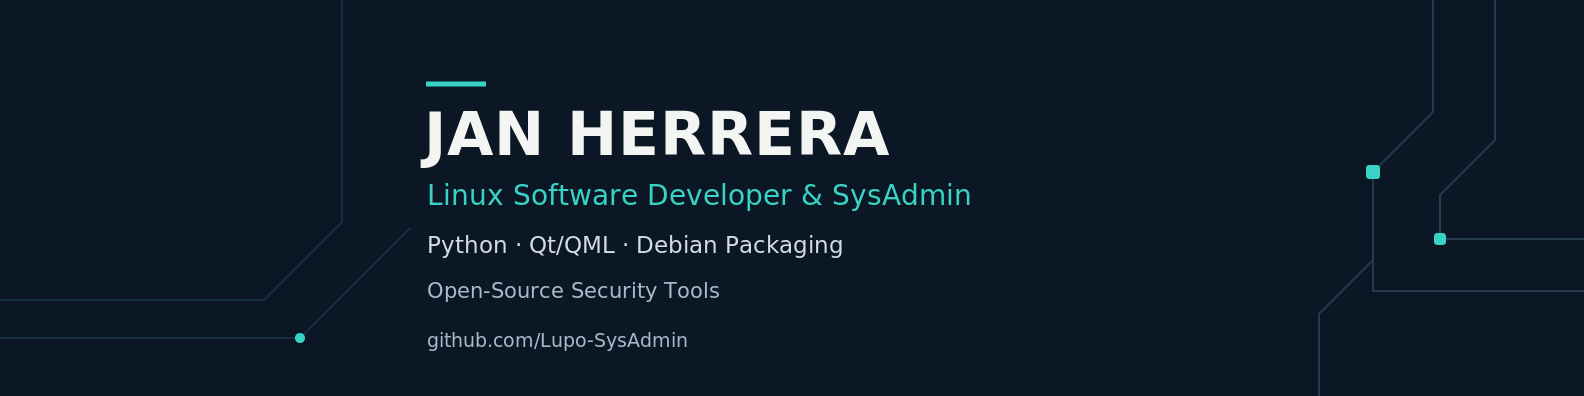
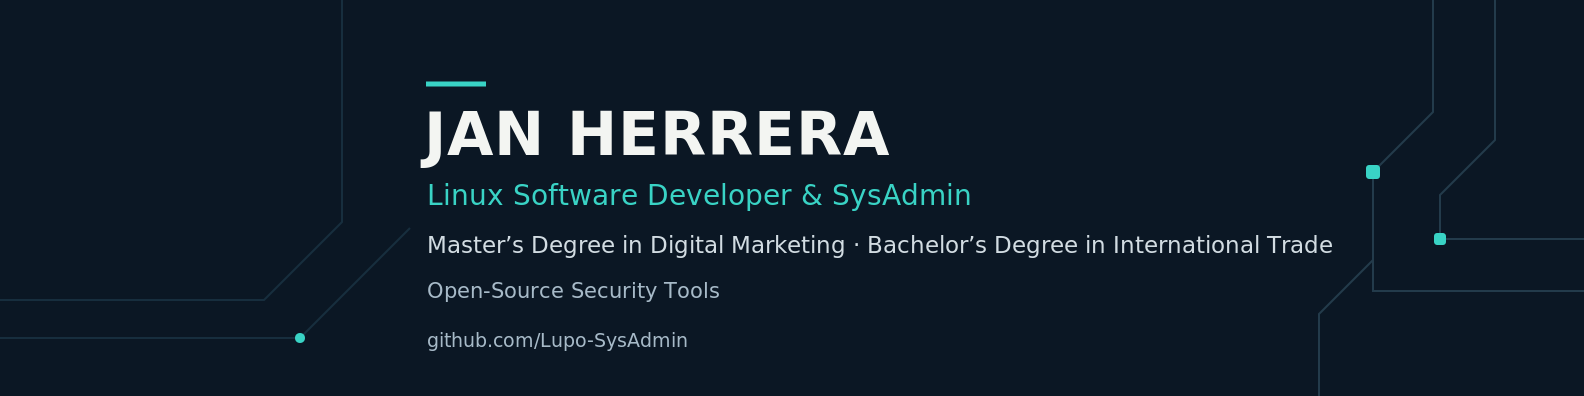
Make English the default profile and documentation language

Changed region(s): [[0.2475, 0.5758, 0.8662, 0.6667]]

diff --git a/README.md b/README.md
@@ -1,46 +1,40 @@
 ![Jan Herrera — Linux Software Developer & SysAdmin](assets/jh-linkedin-banner.png)
 
+[![Español](https://img.shields.io/badge/Language-Espa%C3%B1ol-39D3C5?style=for-the-badge)](README.es.md)
+
 [LinkedIn](https://www.linkedin.com/in/janherreraa/) · [Repositories](https://github.com/Lupo-SysAdmin?tab=repositories)
+
+**Education:** Master’s Degree in Digital Marketing · Bachelor’s Degree in International Trade.
 
 I develop Linux desktop applications and integrations for security tools, with Python, Qt/QML, systemd, and Debian packaging.
 
-Desarrollo aplicaciones de escritorio e integraciones para herramientas de seguridad en Linux, con Python, Qt/QML, systemd y empaquetado Debian.
-
-| Project / Proyecto | My contribution / Mi contribución |
+| Project | My contribution |
 | --- | --- |
-| [JALTRIX](https://github.com/Lupo-SysAdmin/JALTRIX) | Linux investigation console for Snort 3. / Consola Linux de investigación para Snort 3. |
-| [USBGuard Control](https://github.com/Lupo-SysAdmin/usbguard-control) | Independent desktop interface for USBGuard. / Interfaz de escritorio independiente para USBGuard. |
-| [Autopsy GUI Linux](https://github.com/Lupo-SysAdmin/Autopsy-GUI-Linux) | Linux integration, Debian packaging and validation. / Integración Linux, empaquetado Debian y validación. |
+| [JALTRIX](https://github.com/Lupo-SysAdmin/JALTRIX) | Linux investigation console for Snort 3. |
+| [USBGuard Control](https://github.com/Lupo-SysAdmin/usbguard-control) | Independent desktop interface for USBGuard. |
+| [Autopsy GUI Linux](https://github.com/Lupo-SysAdmin/Autopsy-GUI-Linux) | Linux integration, Debian packaging and validation. |
 
-**Lupo Studio:** in development / en desarrollo.
+**Lupo Studio:** in development.
 
 Original Autopsy GUI, Snort, USBGuard, and other upstream components retain their own authorship and licenses. Validation scope and installation details are documented in each repository.
 
-La interfaz original de Autopsy, Snort, USBGuard y los demás componentes conservan su autoría y licencias. El alcance de validación y las instrucciones de instalación se documentan en cada repositorio.
-
-### Support my work / Apoya mi trabajo
+### Support my work
 
 If my tools are useful to you, you can support the time I spend on development, testing, packaging, and documentation. Every contribution is welcome and voluntary. Thank you!
 
-Si mis herramientas te resultan útiles, puedes apoyar el tiempo que dedico al desarrollo, las pruebas, el empaquetado y la documentación. Cualquier aporte es bienvenido y voluntario. ¡Gracias!
-
-**One-time contributions (USD) / Aportes únicos (USD)**
+**One-time contributions (USD)**
 
 [![US$5 via PayPal](https://img.shields.io/badge/PayPal-US%245-00457C?style=for-the-badge&logo=paypal&logoColor=white)](https://www.paypal.me/ascaniojan/5USD)
 [![US$10 via PayPal](https://img.shields.io/badge/PayPal-US%2410-00457C?style=for-the-badge&logo=paypal&logoColor=white)](https://www.paypal.me/ascaniojan/10USD)
 [![US$50 via PayPal](https://img.shields.io/badge/PayPal-US%2450-00457C?style=for-the-badge&logo=paypal&logoColor=white)](https://www.paypal.me/ascaniojan/50USD)
-[![Other amount / Otro monto](https://img.shields.io/badge/PayPal-Other%20amount%20%2F%20Otro%20monto-00457C?style=for-the-badge&logo=paypal&logoColor=white)](https://www.paypal.me/ascaniojan)
+[![Other amount](https://img.shields.io/badge/PayPal-Other%20amount-00457C?style=for-the-badge&logo=paypal&logoColor=white)](https://www.paypal.me/ascaniojan)
 
-**Monthly support / Apoyo mensual**
+**Monthly support**
 
-[![Monthly support / Apoyo mensual](https://img.shields.io/badge/PayPal-Monthly%20%2F%20Mensual-0070BA?style=for-the-badge&logo=paypal&logoColor=white)](https://www.paypal.com/donate/?business=AACLQANRJN3BU&no_recurring=0&item_name=Support+my+Linux+projects%3A+development+and+testing.+%2F+Apoya+mis+proyectos+Linux%3A+desarrollo%2C+pruebas+y+documentaci%C3%B3n.&currency_code=USD)
+[![Monthly support](https://img.shields.io/badge/PayPal-Monthly-0070BA?style=for-the-badge&logo=paypal&logoColor=white)](https://www.paypal.com/donate/?business=AACLQANRJN3BU&no_recurring=0&item_name=Support+my+Linux+projects%3A+development+and+testing.+%2F+Apoya+mis+proyectos+Linux%3A+desarrollo%2C+pruebas+y+documentaci%C3%B3n.&currency_code=USD)
 
 Choose your amount and select **“Make this a monthly donation”** on PayPal to enable automatic monthly support.
 
-Elige el monto y marca la opción de **donación mensual** en PayPal para activar el apoyo mensual automático.
-
 You can also help by reporting bugs, sharing the projects, or contributing to documentation.
-
-También puedes ayudar reportando errores, compartiendo los proyectos o contribuyendo a la documentación.
 
 <!-- Personal visual identity source: assets/*.svg. PNG exports are used for consistent rendering. -->

diff --git a/README.es.md b/README.es.md
@@ -1,0 +1,40 @@
+![Jan Herrera — Linux Software Developer & SysAdmin](assets/jh-linkedin-banner.png)
+
+[![English](https://img.shields.io/badge/Language-English-39D3C5?style=for-the-badge)](README.md)
+
+[LinkedIn](https://www.linkedin.com/in/janherreraa/) · [Repositorios](https://github.com/Lupo-SysAdmin?tab=repositories)
+
+**Formación:** Maestría en Marketing Digital · Licenciatura en Comercio Internacional.
+
+Desarrollo aplicaciones de escritorio e integraciones para herramientas de seguridad en Linux, con Python, Qt/QML, systemd y empaquetado Debian.
+
+| Proyecto | Mi contribución |
+| --- | --- |
+| [JALTRIX](https://github.com/Lupo-SysAdmin/JALTRIX) | Consola Linux de investigación para Snort 3. |
+| [USBGuard Control](https://github.com/Lupo-SysAdmin/usbguard-control) | Interfaz de escritorio independiente para USBGuard. |
+| [Autopsy GUI Linux](https://github.com/Lupo-SysAdmin/Autopsy-GUI-Linux) | Integración Linux, empaquetado Debian y validación. |
+
+**Lupo Studio:** en desarrollo.
+
+La interfaz original de Autopsy, Snort, USBGuard y los demás componentes conservan su autoría y licencias. El alcance de validación y las instrucciones de instalación se documentan en cada repositorio.
+
+### Apoya mi trabajo
+
+Si mis herramientas te resultan útiles, puedes apoyar el tiempo que dedico al desarrollo, las pruebas, el empaquetado y la documentación. Cualquier aporte es bienvenido y voluntario. ¡Gracias!
+
+**Aportes únicos (USD)**
+
+[![US$5 via PayPal](https://img.shields.io/badge/PayPal-US%245-00457C?style=for-the-badge&logo=paypal&logoColor=white)](https://www.paypal.me/ascaniojan/5USD)
+[![US$10 via PayPal](https://img.shields.io/badge/PayPal-US%2410-00457C?style=for-the-badge&logo=paypal&logoColor=white)](https://www.paypal.me/ascaniojan/10USD)
+[![US$50 via PayPal](https://img.shields.io/badge/PayPal-US%2450-00457C?style=for-the-badge&logo=paypal&logoColor=white)](https://www.paypal.me/ascaniojan/50USD)
+[![Otro monto](https://img.shields.io/badge/PayPal-Otro%20monto-00457C?style=for-the-badge&logo=paypal&logoColor=white)](https://www.paypal.me/ascaniojan)
+
+**Apoyo mensual**
+
+[![Apoyo mensual](https://img.shields.io/badge/PayPal-Mensual-0070BA?style=for-the-badge&logo=paypal&logoColor=white)](https://www.paypal.com/donate/?business=AACLQANRJN3BU&no_recurring=0&item_name=Support+my+Linux+projects%3A+development+and+testing.+%2F+Apoya+mis+proyectos+Linux%3A+desarrollo%2C+pruebas+y+documentaci%C3%B3n.&currency_code=USD)
+
+Elige el monto y marca la opción de **donación mensual** en PayPal para activar el apoyo mensual automático.
+
+También puedes ayudar reportando errores, compartiendo los proyectos o contribuyendo a la documentación.
+
+<!-- Personal visual identity source: assets/*.svg. PNG exports are used for consistent rendering. -->

diff --git a/assets/README.md b/assets/README.md
@@ -1,13 +1,14 @@
 # Jan Herrera / Lupo-SysAdmin
 
-Personal visual identity / Identidad visual personal.
+[![Español](https://img.shields.io/badge/Language-Espa%C3%B1ol-39D3C5?style=for-the-badge)](README.es.md)
 
-- `jh-avatar.svg`: vector monogram / monograma vectorial, 1024 × 1024.
-- `jh-linkedin-banner.svg`: editable banner / portada editable, 1584 × 396.
-- PNG files: upload-ready exports / exportaciones para subir a plataformas.
-- Colors / Colores: `#0B1724`, `#39D3C5`, `#F3F5F2`.
-- Banner font / Fuente de portada: DejaVu Sans.
+Personal visual identity.
+
+- `jh-avatar.svg`: vector monogram, 1024 × 1024.
+- `jh-linkedin-banner.svg`: editable banner, 1584 × 396.
+- PNG files: upload-ready exports.
+- Colors: `#0B1724`, `#39D3C5`, `#F3F5F2`.
+- Banner font: DejaVu Sans.
+- Banner education line: Master's Degree in Digital Marketing and Bachelor's Degree in International Trade.
 
 These assets identify Jan Herrera. Their publication does not grant permission to impersonate him or imply endorsement.
-
-Estos recursos identifican a Jan Herrera. Su publicación no autoriza la suplantación de identidad ni implica respaldo a terceros.

diff --git a/assets/README.es.md b/assets/README.es.md
@@ -1,0 +1,14 @@
+# Jan Herrera / Lupo-SysAdmin
+
+[![English](https://img.shields.io/badge/Language-English-39D3C5?style=for-the-badge)](README.md)
+
+Identidad visual personal.
+
+- `jh-avatar.svg`: monograma vectorial, 1024 × 1024.
+- `jh-linkedin-banner.svg`: portada editable, 1584 × 396.
+- Archivos PNG: exportaciones listas para publicar.
+- Colores: `#0B1724`, `#39D3C5`, `#F3F5F2`.
+- Fuente de portada: DejaVu Sans.
+- Formación en la portada: maestría en Marketing Digital y licenciatura en Comercio Internacional.
+
+Estos recursos identifican a Jan Herrera. Su publicación no autoriza la suplantación de identidad ni implica respaldo a terceros.
